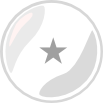
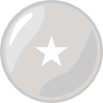
Update new color ball

diff --git a/NOBOIShooter/Screens/GameScreen.cs b/NOBOIShooter/Screens/GameScreen.cs
@@ -74,7 +74,7 @@ namespace NOBOIShooter.Screens
             // Draw Backgrounds
             spriteBatch.Draw(_background, new Rectangle(0, 0, Singleton.Instance.ScreenWidth, Singleton.Instance.ScreenHeight), Color.White);
             // Draw Backgrounds
-            spriteBatch.Draw(_pen, new Rectangle((int)_bord.Position.X, (int)_bord.Position.Y, _bord.Width, _bord.Height), new Color(Color.Black, 0.3f));
+            spriteBatch.Draw(_pen, new Rectangle((int)_bord.Position.X, (int)_bord.Position.Y, _bord.Width, _bord.Height), new Color(Color.Black, 0.1f));
 
            
 
